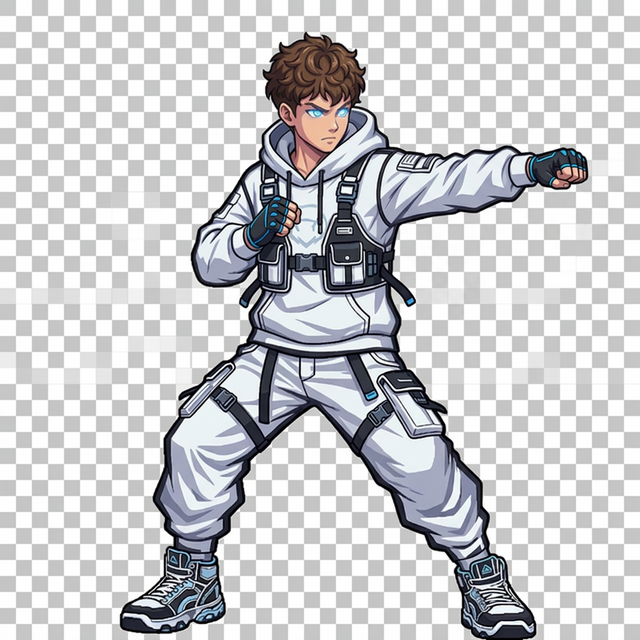
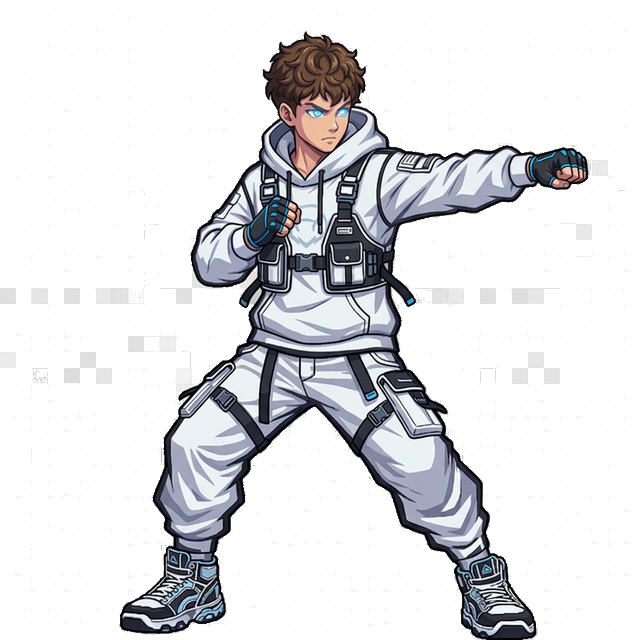
Fix: Removed checkerboards from all projectiles, unlocked special keanos, updated portraits

diff --git a/js/data.js b/js/data.js
@@ -77,8 +77,8 @@ export function isFighterUnlocked(id) {
     // Main roster is always unlocked
     if (ROSTER.find(f => f.id === id)) return true;
 
-    // Check DEV unlock flag (optional bypass)
-    // if (localStorage.getItem('DEV_UNLOCK_ALL') === 'true') return true;
+    // V21 FIX: Unlock requested special characters for the user
+    if (id === 'SupremeKeano' || id === 'HyperKeano') return true;
 
     // Check localStorage
     const saved = localStorage.getItem(`unlock_${id}`);

diff --git a/remove_checkerboard.py b/remove_checkerboard.py
@@ -1,0 +1,56 @@
+import sys
+import glob
+from PIL import Image
+
+def remove_bg(img_path, out_path):
+    img = Image.open(img_path).convert("RGBA")
+    pixels = img.load()
+    width, height = img.size
+
+    def is_bg(p):
+        r, g, b = p[:3]
+        # Check against common checkerboard colors (white and shades of light grey)
+        for target in [255, 204, 153]:
+            if abs(r - target) < 15 and abs(g - target) < 15 and abs(b - target) < 15:
+                return True
+        return False
+
+    q = [(0, 0), (width-1, 0), (0, height-1), (width-1, height-1), (0, height//2), (width-1, height//2)]
+    visited = set()
+    
+    # Flood fill
+    for start in q:
+        if start not in visited and is_bg(pixels[start[0], start[1]]):
+            sq = [start]
+            visited.add(start)
+            head = 0
+            while head < len(sq):
+                x, y = sq[head]
+                head += 1
+                pixels[x, y] = (0, 0, 0, 0)
+                
+                for dx, dy in [(0, 1), (1, 0), (0, -1), (-1, 0)]:
+                    nx, ny = x + dx, y + dy
+                    if 0 <= nx < width and 0 <= ny < height and (nx, ny) not in visited:
+                        if is_bg(pixels[nx, ny]):
+                            visited.add((nx, ny))
+                            sq.append((nx, ny))
+                            
+    img.save(out_path)
+
+target_paths = [
+    "assets/CHARACTERS/0.1.Supreme_Keano/*.png",
+    "assets/CHARACTERS/0.2.Hyper_Keano/*.png",
+    "assets/fx/char_projectiles/*.png"
+]
+
+files = []
+for p in target_paths:
+    files.extend(glob.glob(p))
+
+for f in files:
+    try:
+        remove_bg(f, f)
+        print("Matted:", f)
+    except Exception as e:
+        print("Failed:", f, str(e))
